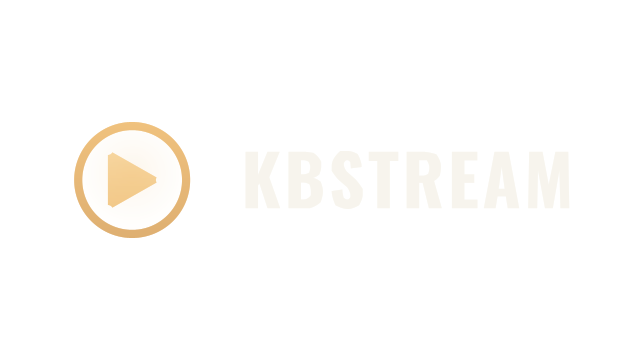
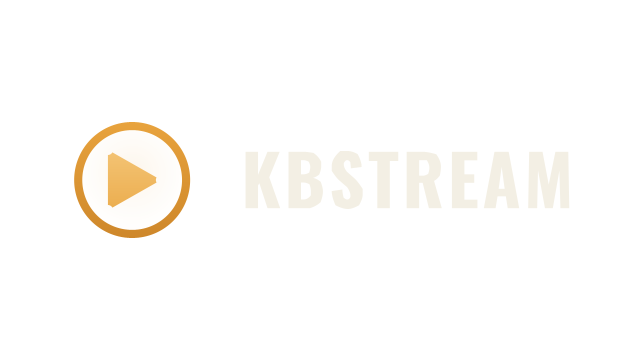
Update 29 files\n\nCo-authored-by: Freebuff Agent <agent@mail.freebuff.app>

Changed region(s): [[0.0938, 0.3361, 0.3125, 0.6722]]

diff --git a/scripts/render_brand_assets.py b/scripts/render_brand_assets.py
@@ -361,6 +361,12 @@ def fill(buf, w, h, polys, paint, ss=SS):
     Coverage is exact across x and sampled on `ss` sub-scanlines down y, which
     is what keeps the long, near-horizontal edges of the play triangle and the
     type clean without supersampling the whole canvas.
+
+    The `ss` samples are ACCUMULATED per pixel and composited once. Folding
+    them together with one "over" step each -- which is what this used to do --
+    lands a fully covered pixel on 1-(1-1/ss)**ss instead of 1: 0.665 at ss=6,
+    so every solid area came out a third transparent. That is what made the
+    transparent downloads (the lockup especially) read as faded behind a wash.
     """
     _check(polys)
     es = _edges(polys)
@@ -369,6 +375,13 @@ def fill(buf, w, h, polys, paint, ss=SS):
     y_lo = max(0, int(math.floor(min(min(e[1], e[3]) for e in es))))
     y_hi = min(h, int(math.ceil(max(max(e[1], e[3]) for e in es))))
     flat = constant_in_x(paint)
+    inv = 1.0 / ss
+    # Coverage for this layer, already weighted by the paint's own alpha
+    # (`acov`, so a radial's falling alpha is honoured), and that same weight
+    # applied to the colour so a partially covered pixel takes the paint's
+    # average colour rather than the last sample's.
+    acov = [0.0] * (w * h)
+    col = [0.0] * (w * h * 3)
     for sub in range(y_lo * ss, y_hi * ss):
         yc = (sub + 0.5) / ss
         cross = []
@@ -393,7 +406,6 @@ def fill(buf, w, h, polys, paint, ss=SS):
             continue
         row = (sub // ss) * w
         fixed = paint_at(paint, 0.0, yc) if flat else None
-        inv = 1.0 / ss
         for a, b in spans:
             gx0 = max(0, int(math.floor(a)))
             gx1 = min(w, int(math.ceil(b)))
@@ -402,21 +414,32 @@ def fill(buf, w, h, polys, paint, ss=SS):
                 if cov <= 0:
                     continue
                 c = fixed if fixed is not None else paint_at(paint, gx + 0.5, yc)
-                sa = cov * inv * c[3]
-                if sa <= 0.0:
+                wgt = cov * inv * c[3]
+                if wgt <= 0.0:
                     continue
-                if sa > 1.0:
-                    sa = 1.0
-                i = (row + gx) * 4
-                da = buf[i + 3]
-                oa = sa + da * (1.0 - sa)
-                if oa <= 0.0:
-                    continue
-                wd = da * (1.0 - sa)
-                buf[i] = (c[0] * sa + buf[i] * wd) / oa
-                buf[i + 1] = (c[1] * sa + buf[i + 1] * wd) / oa
-                buf[i + 2] = (c[2] * sa + buf[i + 2] * wd) / oa
-                buf[i + 3] = oa
+                i = row + gx
+                acov[i] += wgt
+                j = i * 3
+                col[j] += c[0] * wgt
+                col[j + 1] += c[1] * wgt
+                col[j + 2] += c[2] * wgt
+    for i in range(w * h):
+        total = acov[i]
+        if total <= 0.0:
+            continue
+        sa = 1.0 if total > 1.0 else total
+        j = i * 3
+        ia = 1.0 / total
+        o = i * 4
+        da = buf[o + 3]
+        oa = sa + da * (1.0 - sa)
+        if oa <= 0.0:
+            continue
+        wd = da * (1.0 - sa)
+        buf[o] = (col[j] * ia * sa + buf[o] * wd) / oa
+        buf[o + 1] = (col[j + 1] * ia * sa + buf[o + 1] * wd) / oa
+        buf[o + 2] = (col[j + 2] * ia * sa + buf[o + 2] * wd) / oa
+        buf[o + 3] = oa
 
 
 def render(layers, w, h, ss=SS):
